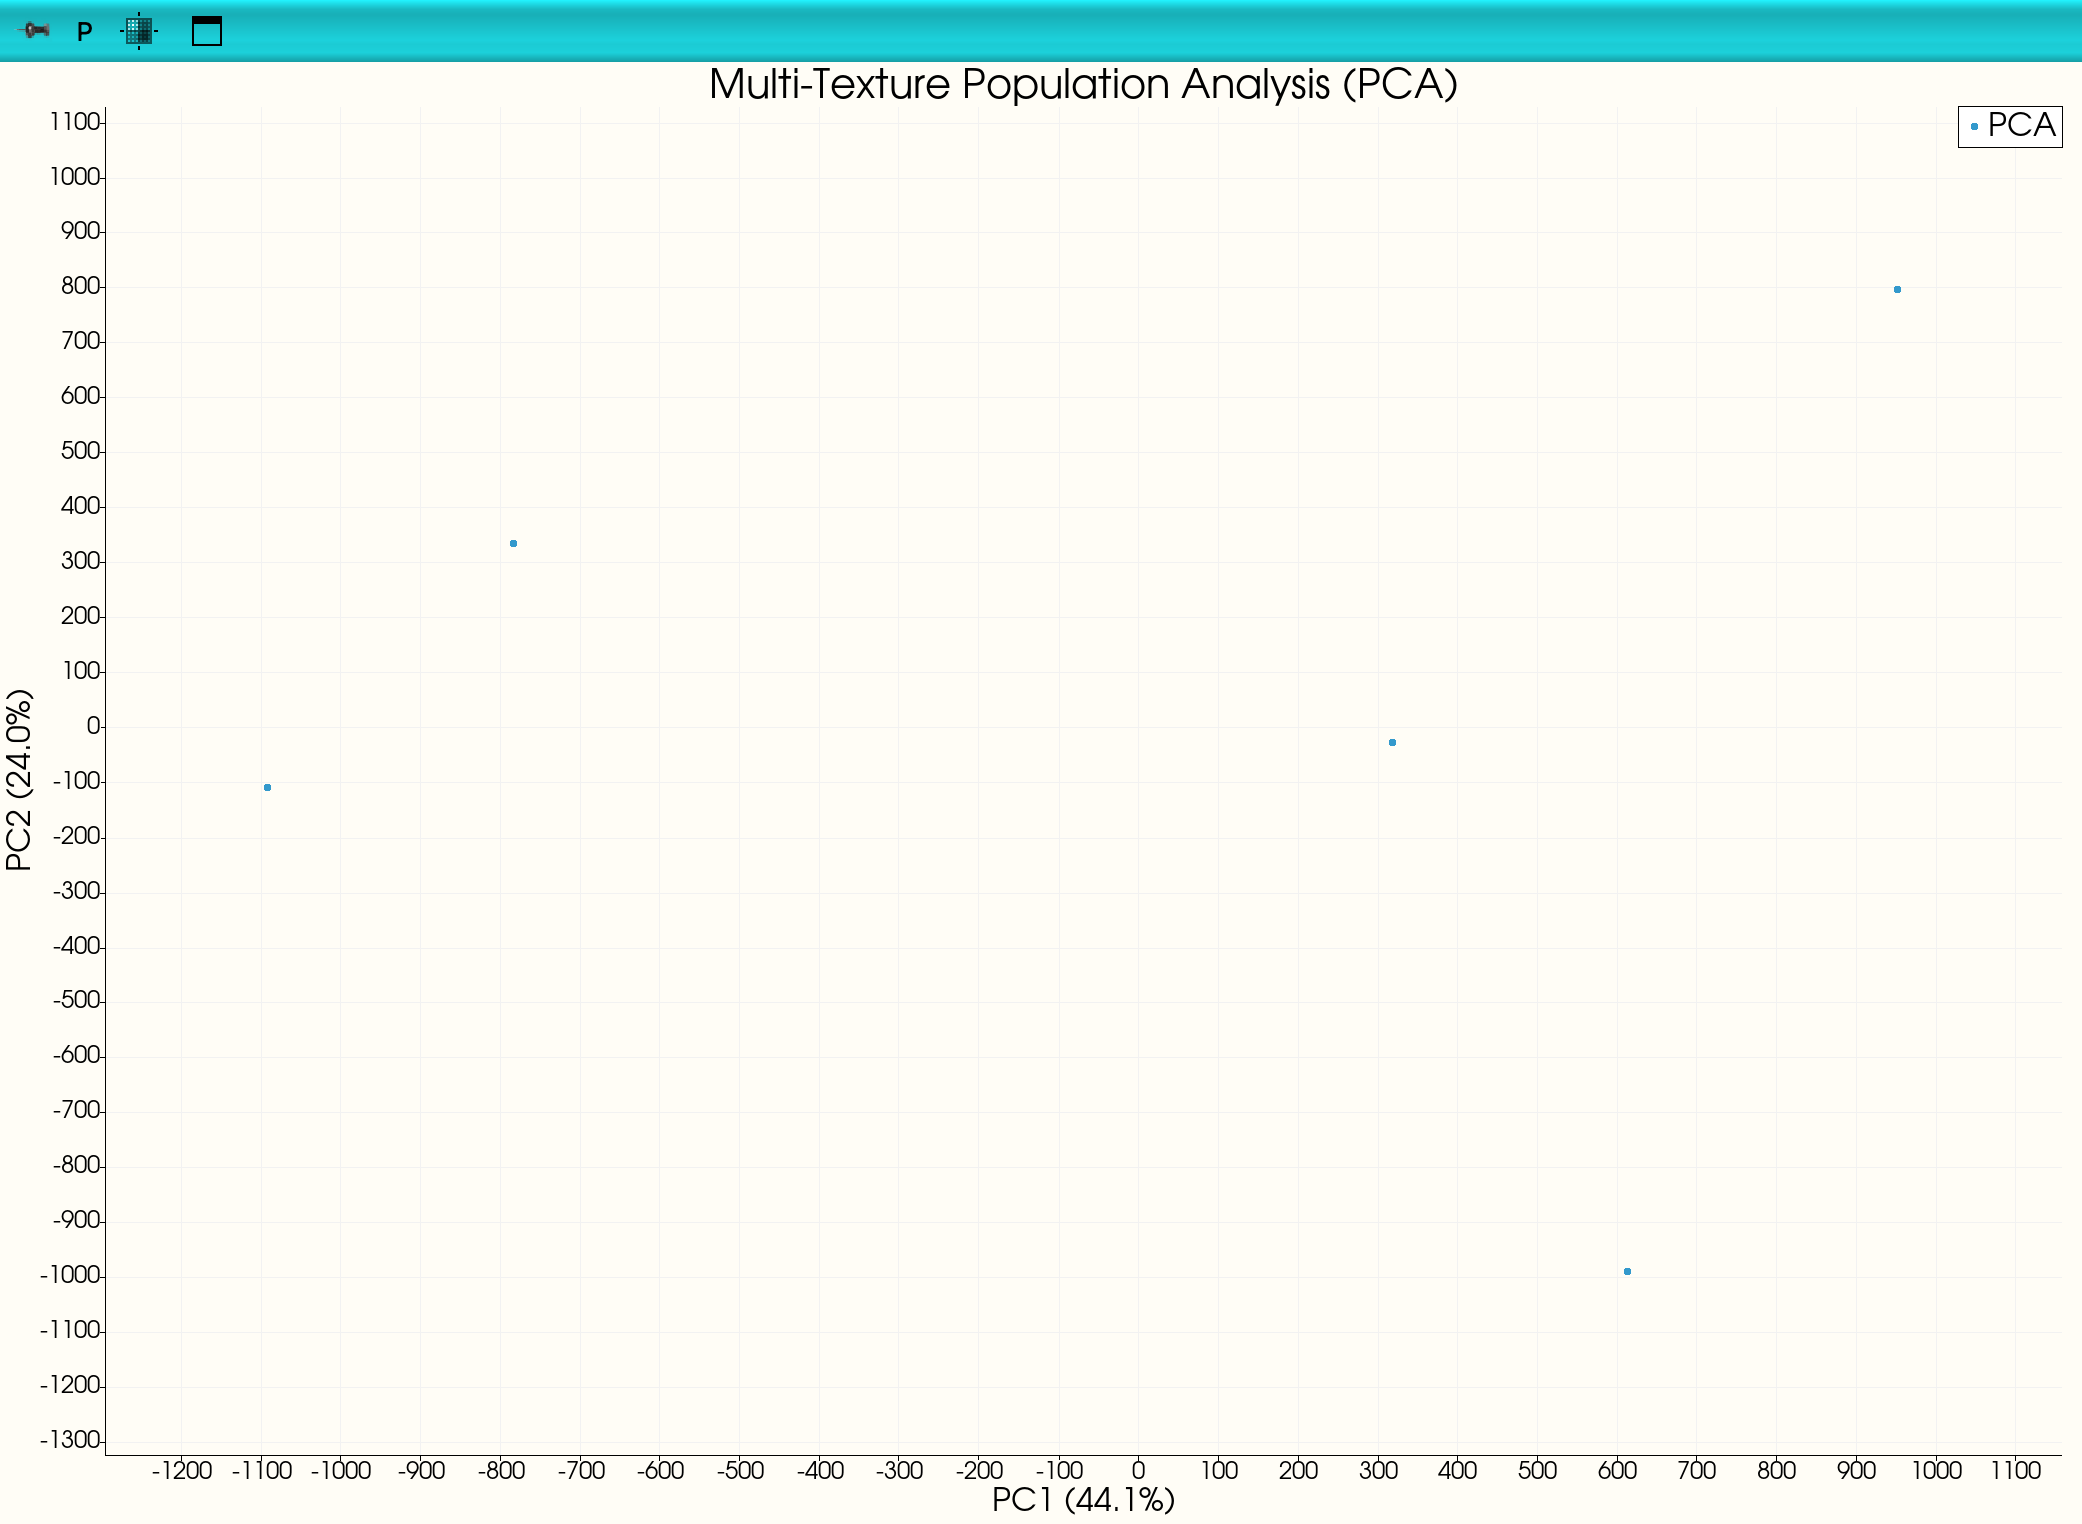
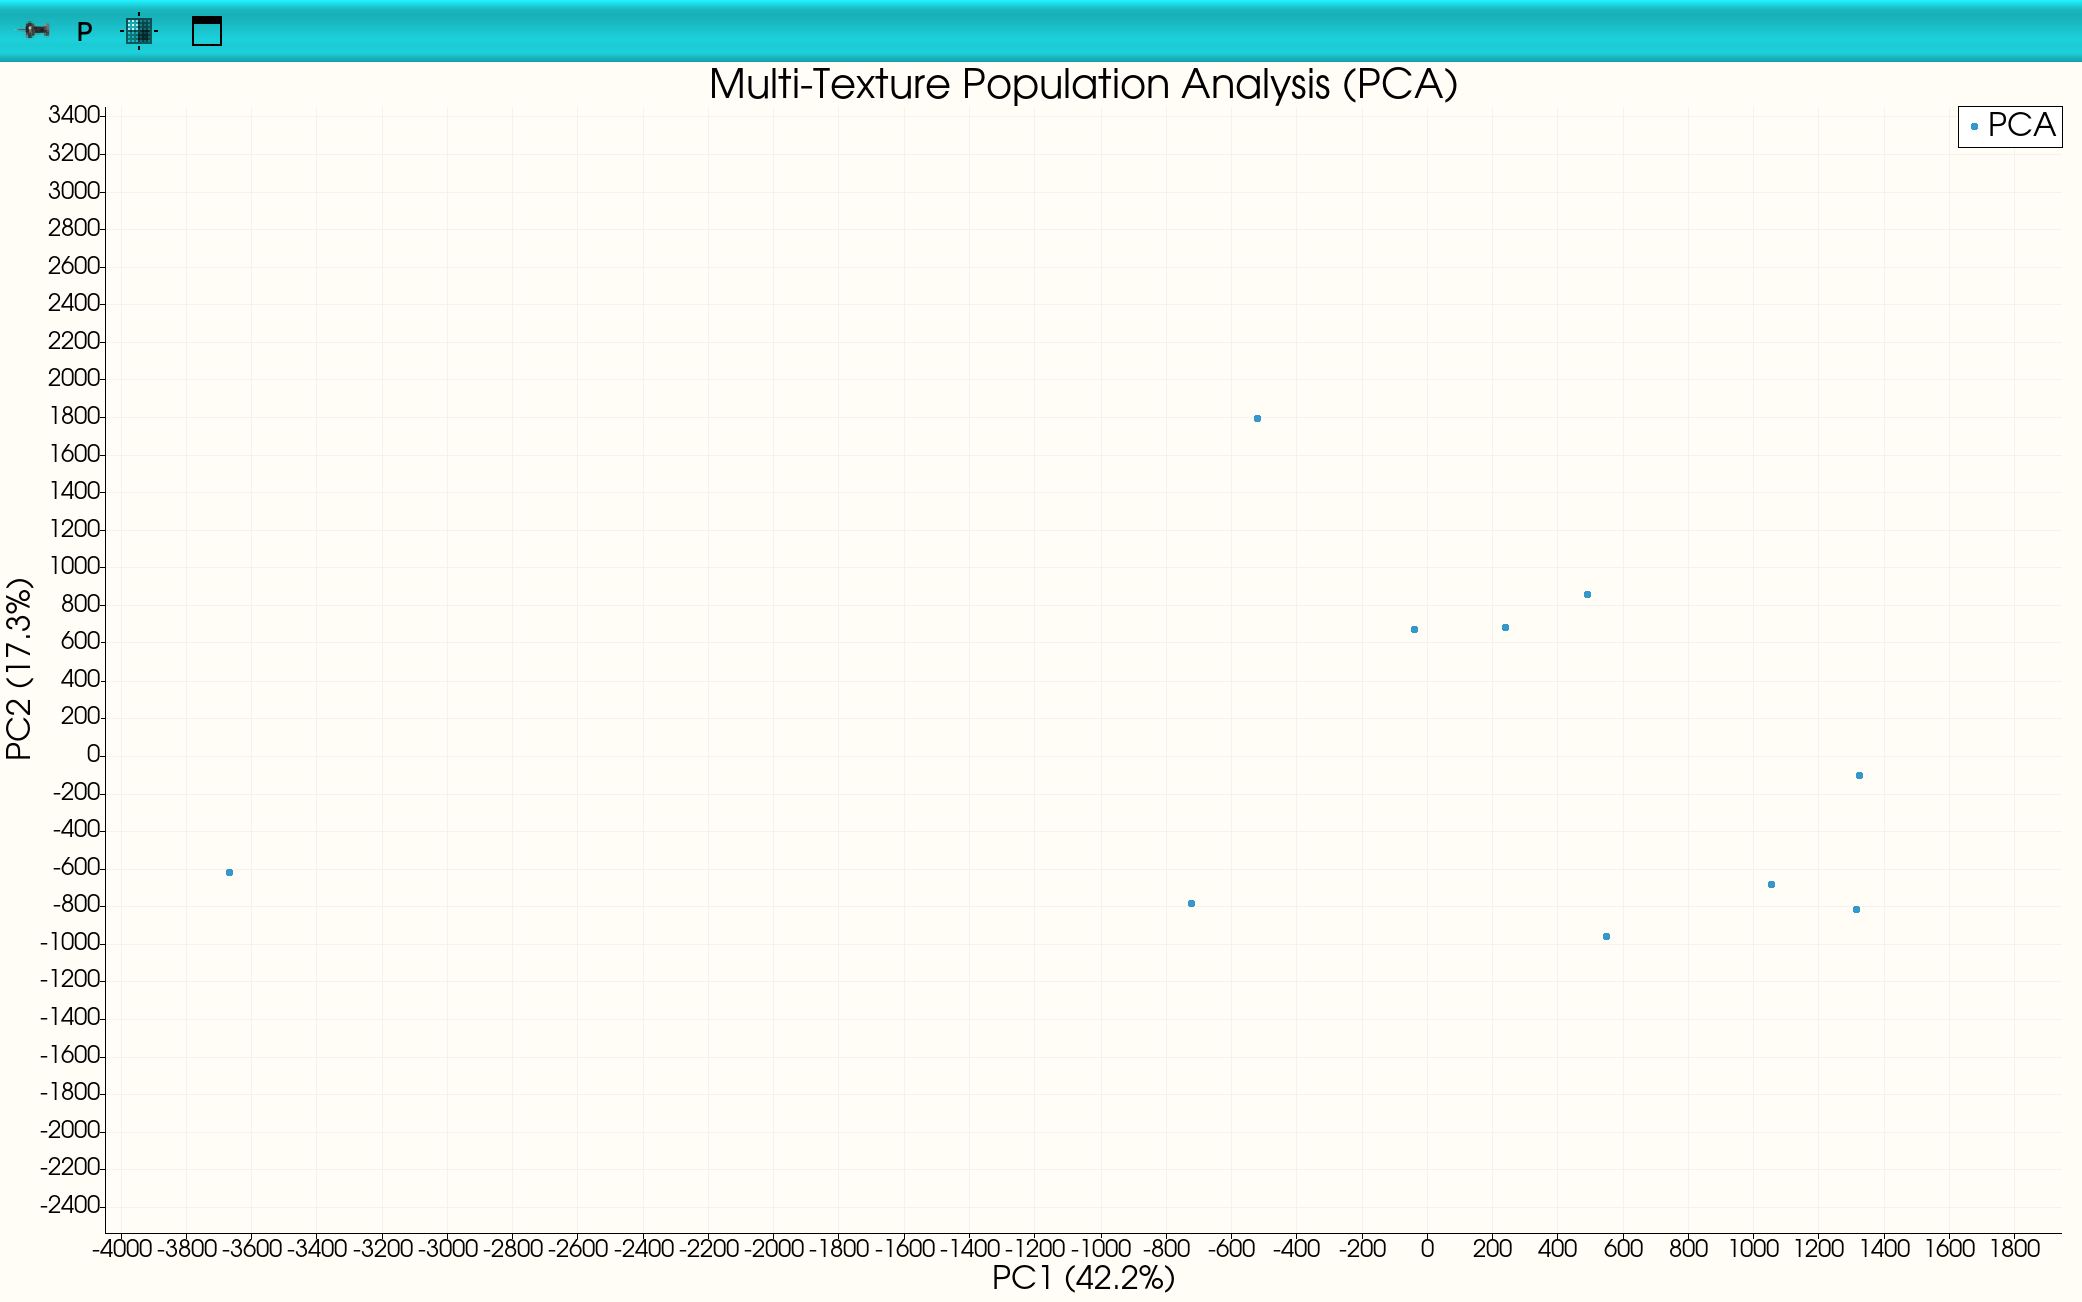
Update tutorial documentation and images

Changed region(s): [[0.0, 0.0, 1.0, 1.0]]

diff --git a/Tutorials/Interdeca_Workflow.md b/Tutorials/Interdeca_Workflow.md
@@ -1,0 +1,123 @@
+# 3D Color Package: End-to-End Workflow with InterDeCA
+
+This tutorial guides you through the complete workflow of the **3D Color Package** (InterDeCA), from installation to analyzing color variation in a population. We will use a **10-mussel dataset** as our example.
+
+## Prerequisites
+
+- **3D Slicer**: Download and install from [download.slicer.org](https://download.slicer.org/).
+- **Dataset**: The 10-mussel dataset is included in this repository under `Tutorials/data`.
+
+---
+
+## Part 1: Installation
+
+### 1. Download the Repository
+Open your terminal and clone the repository:
+```bash
+git clone --branch demo --recurse-submodules https://github.com/bshi42/3d_color_package.git
+```
+<img src="./images/download_interdeca_atlas.gif" alt="Download Process" width="100%"/>
+
+### 2. Install Dependencies in 3D Slicer
+Open 3D Slicer, open the Python Console (Ctrl+3 or View -> Python Console), and run:
+```python
+import slicer
+slicer.util.pip_install('imageio')
+slicer.util.pip_install('scikit-learn')
+slicer.util.pip_install('umap-learn')
+slicer.util.pip_install('scikit-image')
+```
+*Restart 3D Slicer after installation.*
+
+### 3. Install ATLAS
+1. Go to `Developer Tools -> Extension Wizard -> Select Extension`.
+2. Select the `ATLAS` folder within the cloned repository.
+3. Verify that modules like `ATLAS_BUILDER` appear in the modules list.
+
+### 4. Install InterDeCA
+1. Go to `Edit -> Application Settings -> Modules`.
+2. Add the path to `3d_color_package/color_deca/deca3`.
+3. Restart 3D Slicer.
+
+<img src="./images/add_interdeca.gif" alt="Install InterDeCA" width="100%"/>
+
+
+---
+
+## Part 2: Generating an Atlas (ATLAS Tab)
+
+The **ATLAS** module aligns all your 3D models to a common template (atlas) and transfers their textures to it, enabling pixel-wise comparison.
+
+### 1. Open the Module
+Go to `SlicerMorph -> DeCA Toolbox -> InterDeCA` and select the **ATLAS** tab.
+
+### 2. Set Input Directories
+Point the file selectors to the 10-mussel dataset included in the `Tutorials/data` directory:
+- **Model Directory**: `.../3d_color_package/Tutorials/data/models`
+- **Landmark Directory**: `.../3d_color_package/Tutorials/data/landmarks`
+- **Texture Directory**: `.../3d_color_package/Tutorials/data/textures`
+
+Ensure your files follow a consistent naming pattern (e.g., `UF_IZ_[ID]_object_reduced.*`).
+
+### 3. Set Output Directory
+Create and select an empty directory for output, e.g., `.../3d_color_package/Tutorials/data/output`.
+
+### 4. Configure Parameters
+- **Blender Executable**: Path to your Blender executable. (Linux users: `snap install blender --classic`).
+- **Merge by distance**: Cleans up vertices (default usually fine).
+- **Smart UV angle**: Controls UV island flattening.
+- **Bake size (px)**: Resolution of the output maps (e.g., `1024` or `2048`).
+
+### 5. Run
+Click **Run ATLAS and Texture Transfer**. This process:
+1. Generates a mean shape (Atlas).
+2. Aligns all specimens to the Atlas.
+3. Transfers textures from each specimen to the Atlas UV space.
+
+---
+
+## Part 3: Analyzing Color (MultiRecolor Tab)
+
+The **MultiRecolor** tab allows you to analyze and visualize the color variation across your population using the aligned textures generated in Part 2. The workflow consists of 4 steps:
+
+### Step 1: Multi-texture Clustering
+This step processes all texture images to create a consistent, shared color palette for comparison.
+1. **Model**: Select the generated Atlas model (from your output folder).
+2. **Texture Directory**: Select the directory containing the *transferred* textures (usually in your output folder under `atlas_textures`).
+3. **Mode**: Choose **Clustering** to create a shared palette.
+4. **Parameters**:
+   - `Initial Clusters`: 24 (higher for more detail).
+   - `Consolidated Clusters`: 8 (number of final colors).
+5. Click **Cluster**.
+
+### Step 2: Individual Visualization
+After clustering, it is crucial to visualize how the shared palette represents each individual specimen. This confirms that the color simplification (quantization) accurately captures the main patterns of the original specimen.
+
+1. **Select Texture**: Choose a specific texture file from the dropdown list.
+2. **Apply Texture**: Click to apply the clustered texture to the 3D model.
+3. **Toggle Raw/Clustered**: You can compare the original (raw) texture vs. the clustered result to ensure the color details are preserved.
+   - If the result looks "patchy" or misses key details, consider increasing the number of `Consolidated Clusters` in Step 1.
+
+### Step 3: Population Analysis
+This step performs dimensionality reduction to compare color patterns across all textures in a scatter plot.
+1. **Method**: Select **PCA** (Principal Component Analysis).
+2. **Number of PCs**: 2.
+3. Click **Compare Textures**.
+4. A scatter plot will appear. Each point represents one mussel specimen.
+   - Points closer together have more similar color patterns.
+   - Points farther apart are more distinct.
+
+<img src="./images/PCA.png" alt="PCA Analysis of the 10-mussel dataset" width="800"/>
+
+### Step 4: Morphospace
+This step allows you to interactively explore the color variation by navigating through the simplified color space (PCA space).
+1. Expand the **Morphospace** section.
+2. Click **Visualize Morphospace**.
+3. Use the **X-axis** and **Y-axis** sliders to explore color variations.
+   - **Interactive Exploration**: As you move the sliders, the 3D model updates in real-time to show the *predicted* color pattern for that specific position in the PCA space.
+   - You can visualize hypothetical transitions between different color morphs (e.g., seeing how a striped pattern might fade into a solid color).
+
+<img src="./images/morphospace.gif" alt="Morphospace Dragging X-Axis" width="100%"/>
+
+
+
